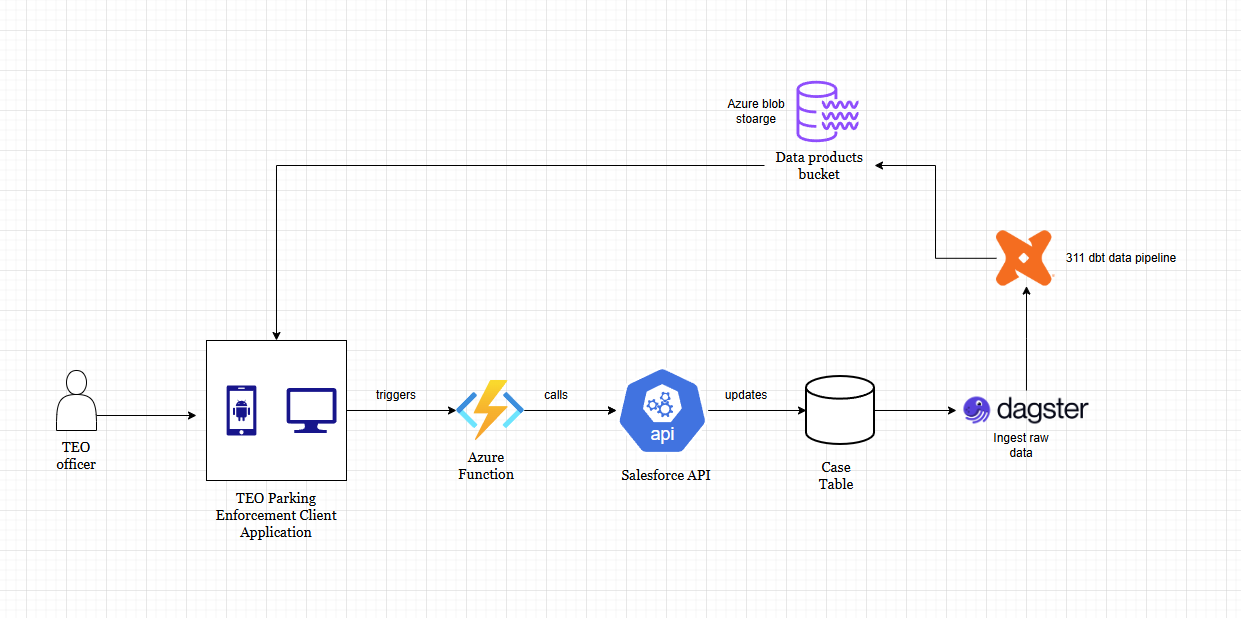
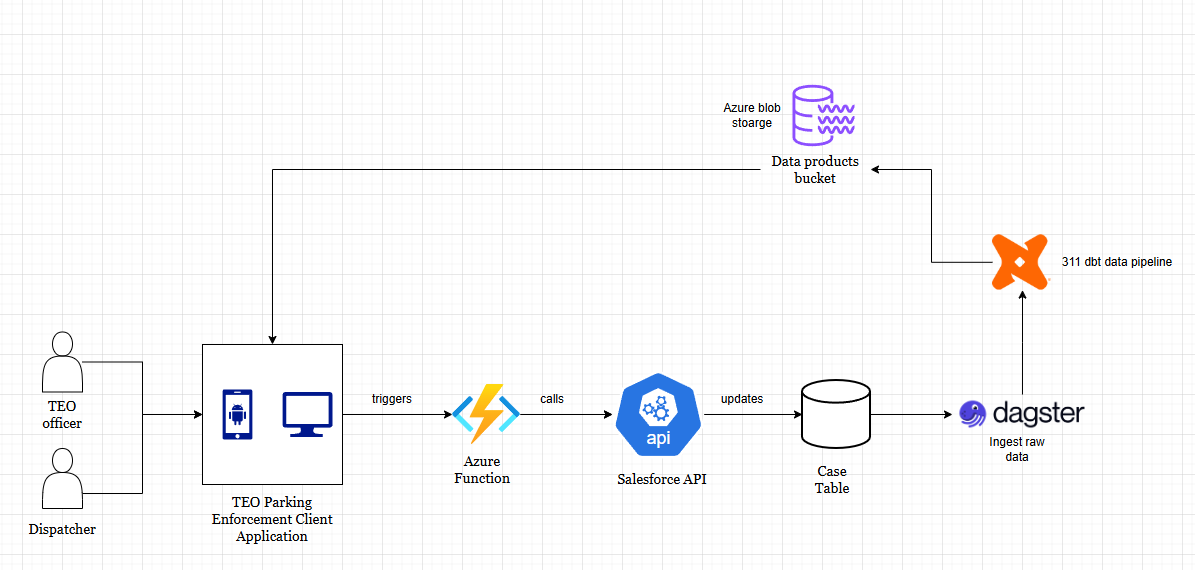
add system design + mermaid markdown

diff --git a/001-teo-app-backend/proposal.md b/001-teo-app-backend/proposal.md
@@ -1,40 +1,78 @@
 
 # Summary
-
-This proposal outlines the back end integration to support the client side TEO Parking Enforcement app. This client side app will be used by more than a hundred Parking TEO officers and should support concurrent updates to Salesforce, both updating and closing service requests from input by TEO officers in the field. 
-
+This proposal outlines the back end integration to support the client side TEO Parking Buddy app. This client side app will be used by an estimated one hundred Parking TEO officers and should support concurrent updates to Salesforce. both updating and closing service requests from input by TEO officers in the field and dispatchers. 
 
 # Motivation
-
-> Describe the problem that this change intends to solve. Don't get into how it
-> solves it yet.
->
-> This can be brief, but if there is any additional context or any
-> empathy-building that you'd like to communicate, it can't hurt to include it
-> with plenty of detail and hypothetical examples.
-
 As part of the Parking Enforcement Tiger Team, we're piloting a client side application to help identify open parking enforcement service requests (SRs) displayed through an interactive map. Both traffic enforcement officers (TEOs) and dispatchers alike would be able to interact with the app and do things such as: 
+- See all open and recent parking enforcement service requests.
 - Close a service request with a given reason such as gone at arrival (GOA)
 - Edit service request details directly
-- Retrieve and download list of open srs in a given area
+- Retrieve and download a list of open SRs in a given area (post)
 
-In an effort to support these functionalities, this RFC aims to outline a system design architecture supported through Azure functions (serverless compute), the Salesforce API, Azure blob storage, and Dagster to orchestrate a 311 data pipeline. 
+In an effort to support these functionalities, this RFC outlines a system design architecture that leverages Azure functions (serverless compute), the Salesforce API, Azure blob storage, and Dagster to orchestrate a 311 dbt data pipeline to power the back end requirements of the TEO Parking Buddy application. 
+
+## Front End Application
+- [TEO Parking Buddy](https://github.com/balt-opi/TEOParkingBuddy)
+
+## Why is This Needed? 
+DOT and TEO officers currently use a Salesforce worker app that is supposed to help them both view and close out parking related service requests while they're on the field. Not only does this current solution not work as expected, TEO officers often bypass using the app and instead default to internal workflows (which vary depending on the TEO). This misalignment results in a loss of visibility into certain parts of the service request lifecycle and often time results in duplicate SRs being filed as a direct result. All of these issues stem from the current worker app 
+
+## Solution
 
 # Proposal
-
-> Describe your proposal.
->
-> Things that can help: clearly defining terms, providing example content,
-> pseudocode, etc.
->
-> Feel free to mention key implementation concerns.
-
+This RFC proposes the introduction of a new micro service repository responsible for handling CRUD operations to interact directly with the Salesforce API through the use of serverless Azure functions. 
 
 ## System Design Architecture
 ![End to end flow](system-design.png)
 
+## Data Models
+The production client side app will be pulling from a parquet stored in `dataproudctsdev/311/fct_parking_complaints.parquet`. 
+The data model for this dataset is:
 
-## Alternatives Considered
+```mermaid
+erDiagram
+  SERVICE_REQUESTS {
+    string sr_id PK "REQUIRED"
+    string sr_number "REQUIRED"
+    string sr_type "REQUIRED"
+    timestamp created_at "REQUIRED"
+    string sr_status "REQUIRED"
+    timestamp closed_at "NULLABLE"
+    timestamp updated_at "NULLABLE"
+    string priority "NULLABLE"
+    string assigned_to "NULLABLE"
+    timestamp due_at "NULLABLE"
+    timestamp sf_last_modified_at "NULLABLE"
+    string outcome "NULLABLE"
+    string closing_response "NULLABLE"
+    string method_received "NULLABLE"
+    string source "NULLABLE"
+    string sf_source "NULLABLE"
+    string street_address "NULLABLE"
+    float located_lat "NULLABLE"
+    float located_lng "NULLABLE"
+    float latitude "NULLABLE"
+    float longitude "NULLABLE"
+    string case_details "NULLABLE"
+    string parent_sr_id FK "NULLABLE"
+    string duplicate_sr_id FK "NULLABLE"
+    boolean has_photo "NULLABLE"
+    string details "NULLABLE"
+    string flex_summary "NULLABLE"
+    string location_details "NULLABLE"
+    string description "NULLABLE"
+    boolean is_closed "NULLABLE"
+    string issue "NULLABLE"
+    timestamp overall_closed_at "NULLABLE"
+    timestamp overall_due_at "NULLABLE"
+    float days_old "NULLABLE"
+    string is_timely "NULLABLE"
+    string issue_category "NULLABLE"
+  }
+```
+
+This parquet is overwritten everytime 
+
 
 
 # Open Questions
